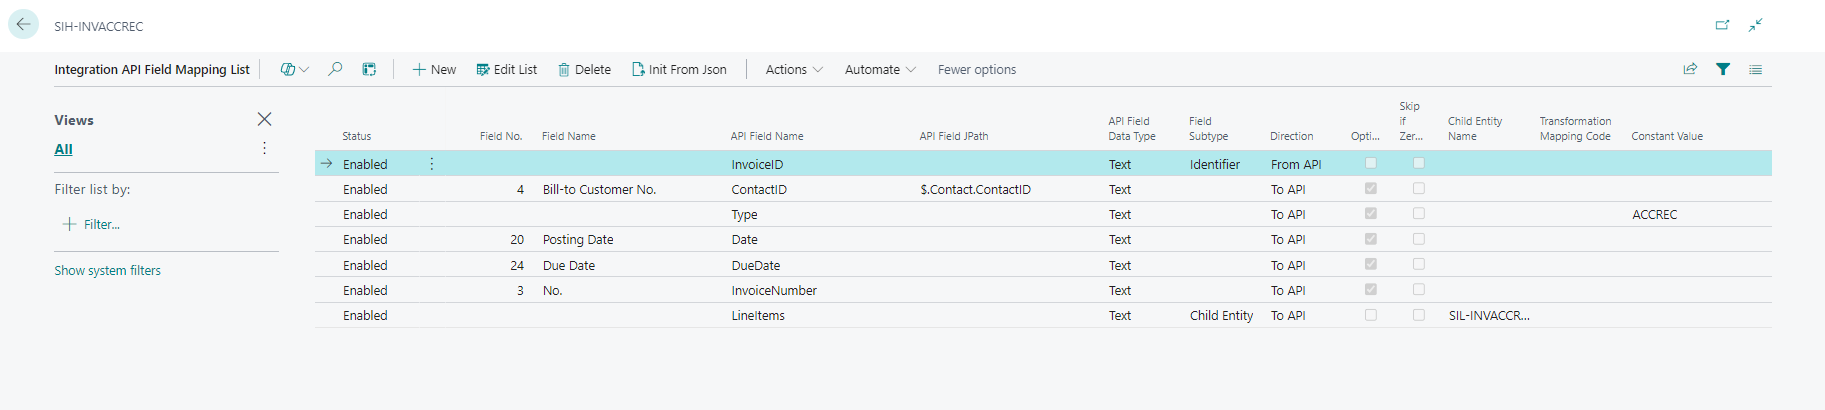
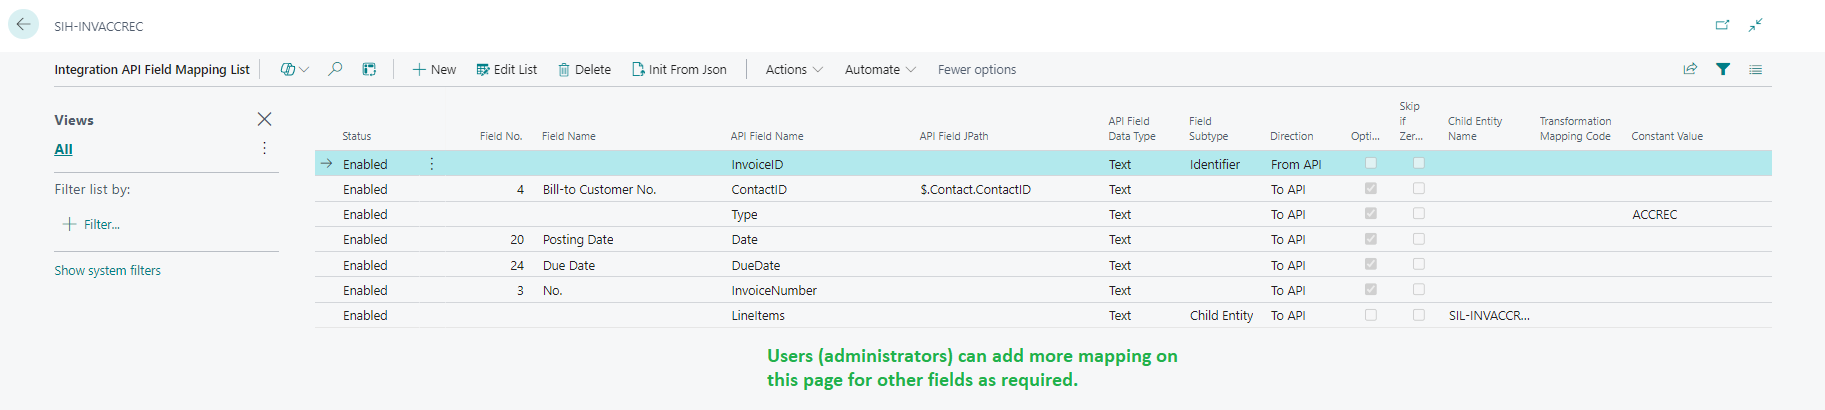
Additional picture for A20, picture descriptions

Changed region(s): [[0.406, 0.8488, 0.6559, 0.9659]]

diff --git a/docs/AddOns-Integrations/20-Xero-Connect/Functionality.md b/docs/AddOns-Integrations/20-Xero-Connect/Functionality.md
@@ -82,6 +82,8 @@ Once the mapping is reset, navigate to **Integration API Mappings** to see defau
 
 Due to the usual differences between every Business Central implementation, these mappings are designed as an example of how you can configure your own mappings between Business Central and Xero. The mappings are tested against the Xero Demo Company, so if you have Xero Demo Company connected, you will be able to create Contacts and Invoices in Xero.
 
+![image.png](./img/ExampleMappingDiagram.png)
+
 ### Creating/Changing mappings
 
 You can find more details about the Xero API endpoints and field names in the official Xero API Documentation https://developer.xero.com/documentation/api/accounting/overview
